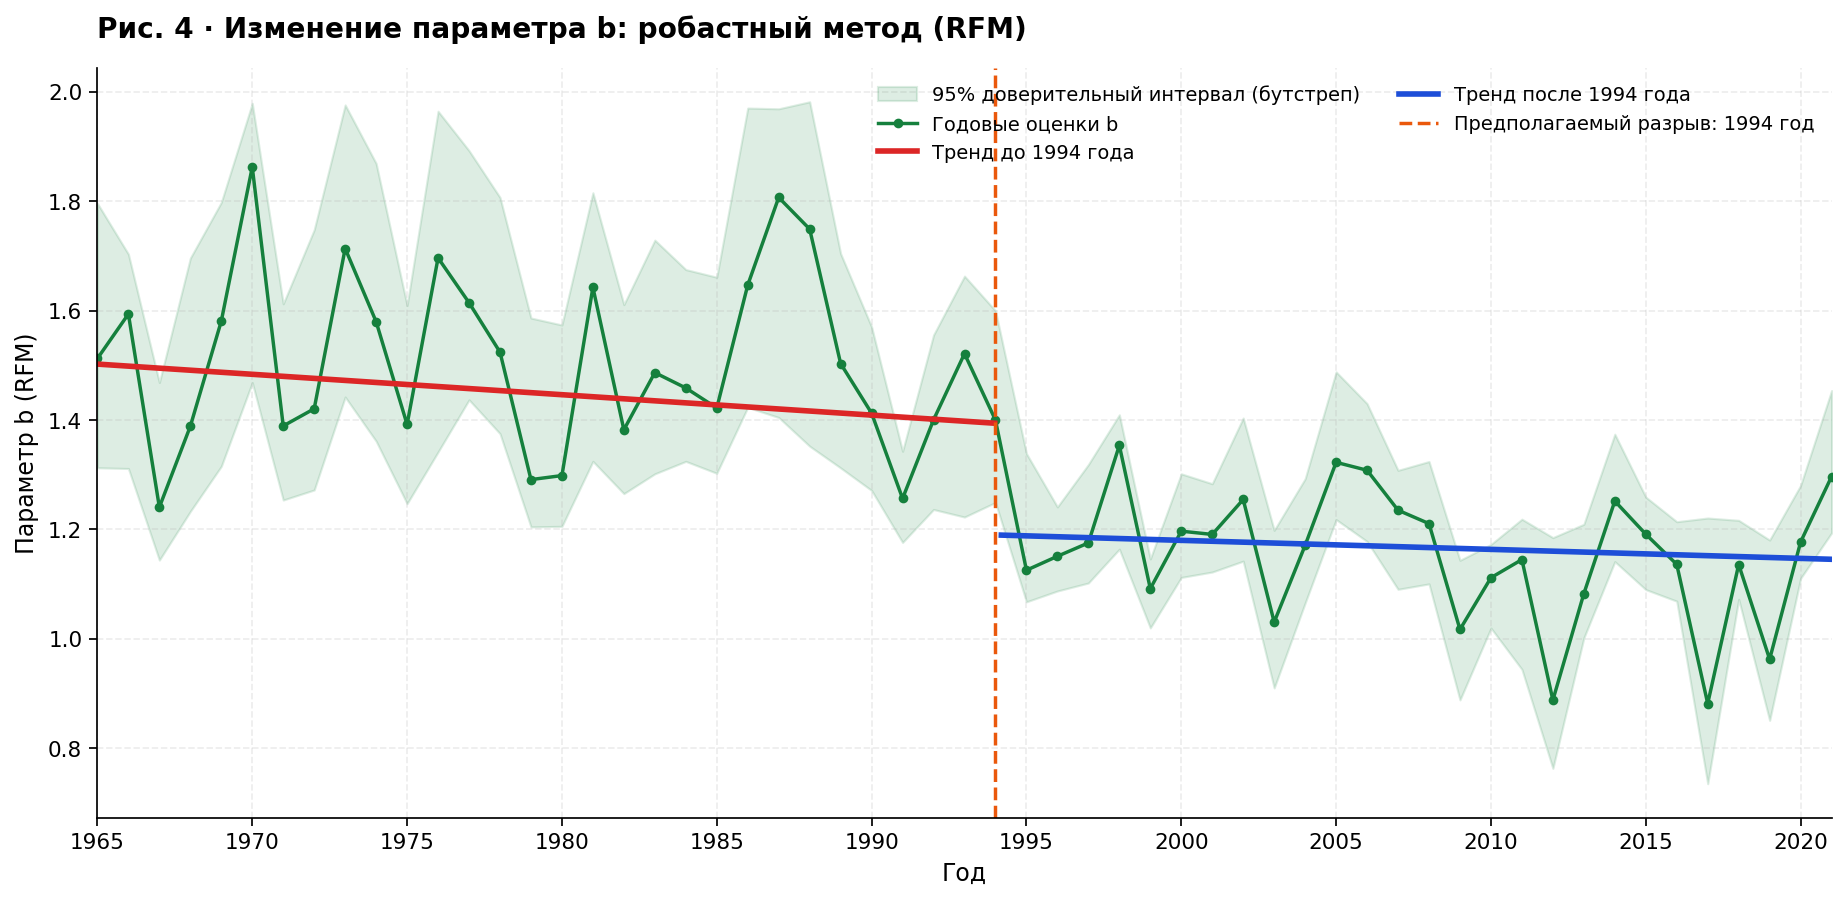
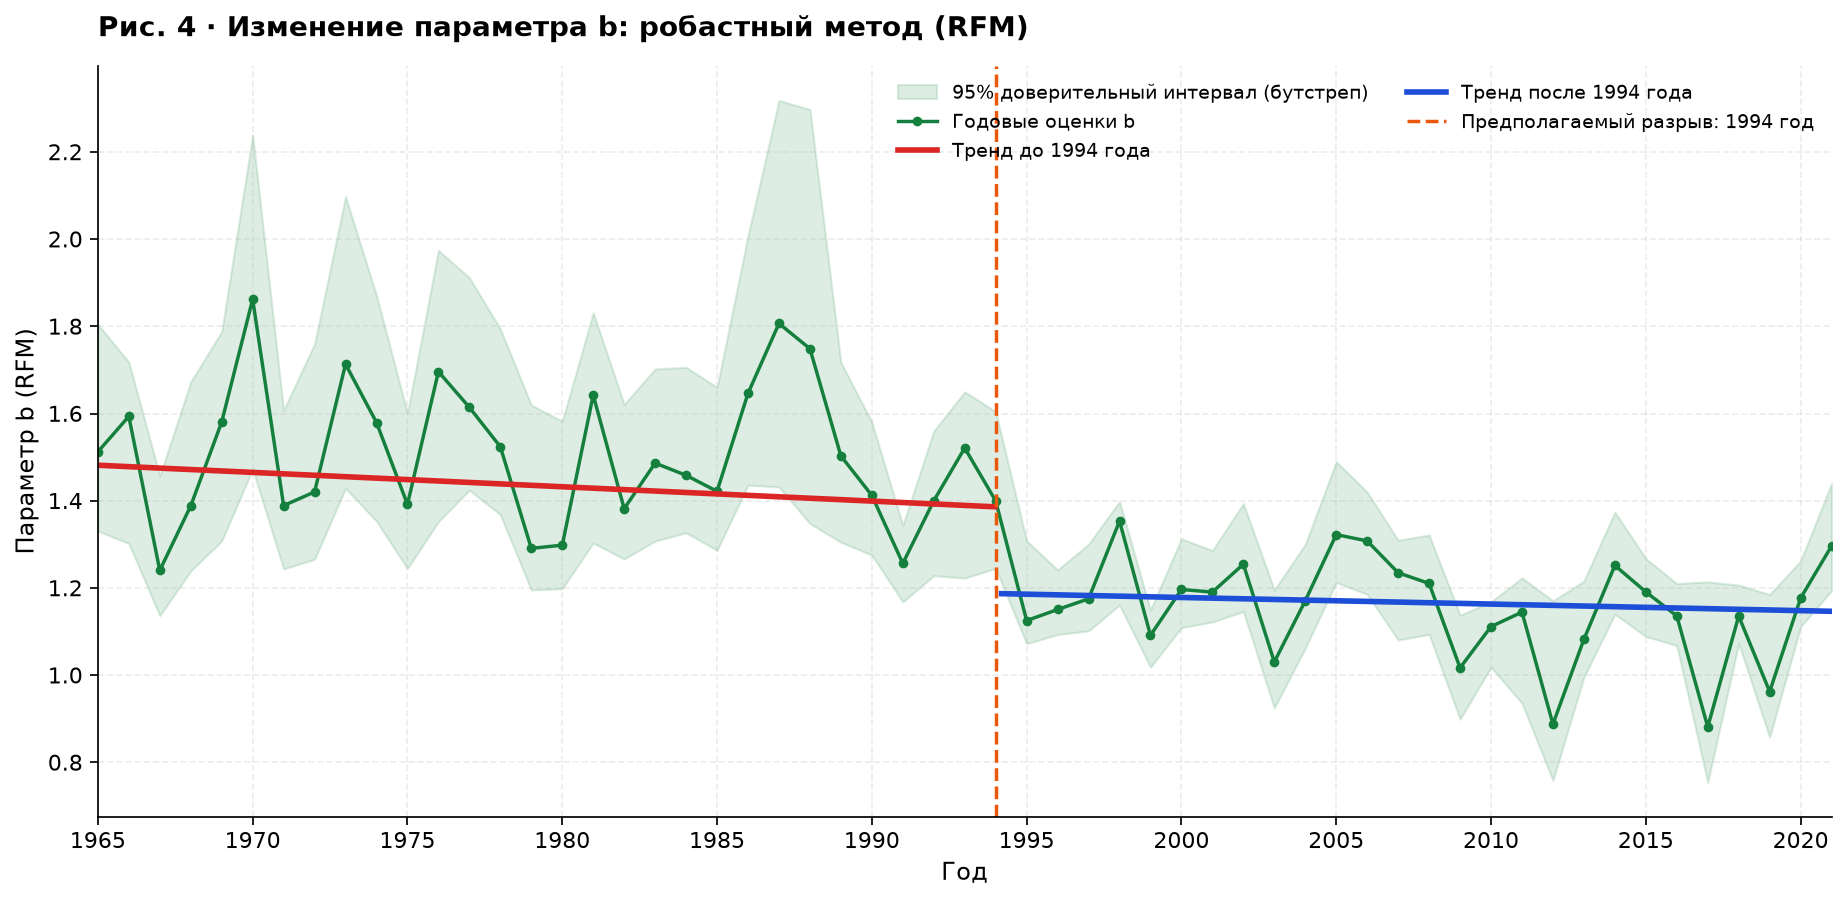
пересчет RFM без отсечения бутстреп-оценок b

diff --git a/src/rfm.py b/src/rfm.py
@@ -114,7 +114,7 @@ def estimate_mc(magnitudes: np.ndarray, min_mc: float = 3.5):
     return {'mc': mc, 'b': b, 'a': a, 'r': float(vals[best])}
 
 
-def _bootstrap_b(tail: np.ndarray, b_range=(0.5, 2.0)) -> float:
+def _bootstrap_b(tail: np.ndarray, b_range=None) -> float:
     """Оценка b для одной бутстреп-реплики хвоста (как в исходном коде авторов).
 
     Корзины строятся по самой реплике (от её минимальной магнитуды), Mc не
@@ -126,14 +126,14 @@ def _bootstrap_b(tail: np.ndarray, b_range=(0.5, 2.0)) -> float:
     # максимальное событие реплики всегда попадает в корзины.
     centers, observed = cumulative_bins(tail, pad=0.05)
     b, _ = robust_fit(centers, observed)
-    if not np.isfinite(b) or not (b_range[0] <= b <= b_range[1]):
+    if not np.isfinite(b) or (b_range is not None and not (b_range[0] <= b <= b_range[1])):
         return np.nan
     return float(b)
 
 
 def bootstrap_ci(magnitudes: np.ndarray, mc: float, *, n_resamples: int = 1000,
                  seed: int = 20261025, level: float = 0.95,
-                 b_range=(0.5, 2.0)) -> dict:
+                 b_range=None) -> dict:
     """Перцентильный бутстреп-интервал для b при фиксированном Mc.
 
     События с M ≥ Mc пересэмплируются с возвращением; для каждой реплики b

diff --git a/run.py b/run.py
@@ -70,8 +70,8 @@ def _write_report(rfm, mle, supf, chow):
         'В статье региональные ряды b-positive не подтверждают сопоставимый устойчивый разрыв после поправки Холма.',
         'Это не является доказательством физической перестройки глобального сейсмического режима.',
         '',
-        'Доверительные интервалы RFM использованы из сохранённых результатов исходного эксперимента,',
-        'а не получены повторным полным бутстрепом при этом запуске.',
+        'Доверительные интервалы RFM рассчитываются без дополнительного отсечения по диапазону b.',
+        'Основной запуск использует сохранённые интервалы; опция --recompute-ci пересчитывает их заново.',
         '',
         'Чувствительность p к длине блока, положению границ блоков и весам: python supf_sensitivity.py',
         '(результат в results/supf_чувствительность.md).',

diff --git a/README.md b/README.md
@@ -84,11 +84,11 @@ Gutenberg_Richter_GitHub/
 
 | Метод | Характеристика | Полученный результат |
 |---|---|---:|
-| RFM + supF | Наиболее вероятная дата | **1994** |
-| RFM + supF | Максимальное F | **6,90** |
-| RFM + supF | p (Wild-Block Bootstrap, случайные блоки, L = 3, 19999 повторов) | **0,046** |
-| RFM + supF | p при средней длине блока 2–6 лет | **0,038–0,063** |
-| RFM + supF | p без весов, L = 2–6 | **0,09–0,12** |
+| RFM + supF | Год максимума | 1994 |
+| RFM + supF | Максимальное F | 7.1473 |
+| RFM + supF | p (L=3, случайные блоки) | 0.0457 |
+| RFM + supF | p при L=2–6, с весами | 0.0388–0.0618 |
+| RFM + supF | p при L=2–6, без весов | 0.0927–0.1237 |
 | MLE при M0 = 5,0 | F критерия Чоу | **9,6878** |
 | MLE при M0 = 5,0 | Номинальное p | **0,000259** |
 | MLE при M0 = 5,5 | Номинальное p | **0,00434** |

diff --git a/results/ИТОГИ_АНАЛИЗА.md b/results/ИТОГИ_АНАЛИЗА.md
@@ -6,11 +6,11 @@
 ## RFM: supF при неизвестной дате
 
 - Год максимума: **1994**.
-- F-статистика: **6.8993**.
-- Бутстреп p: **0.0461** ± 0.0029 (95% интервал Монте-Карло; 19999 реплик).
+- F-статистика: **7.1473**.
+- Бутстреп p: **0.0457** ± 0.0029 (95% интервал Монте-Карло; 19999 реплик).
 - Схема блоков: случайное разбиение, средняя длина блока 3 года; веса 1/max(se, 0.05)².
-- Критическое значение (95%): **6.7888**.
-- Разность BIC (нулевая минус альтернативная модель): **+5.1032**.
+- Критическое значение (95%): **7.0220**.
+- Разность BIC (нулевая минус альтернативная модель): **+5.5248**.
 
 ## MLE: критерий Чоу для фиксированного 1994 года
 
